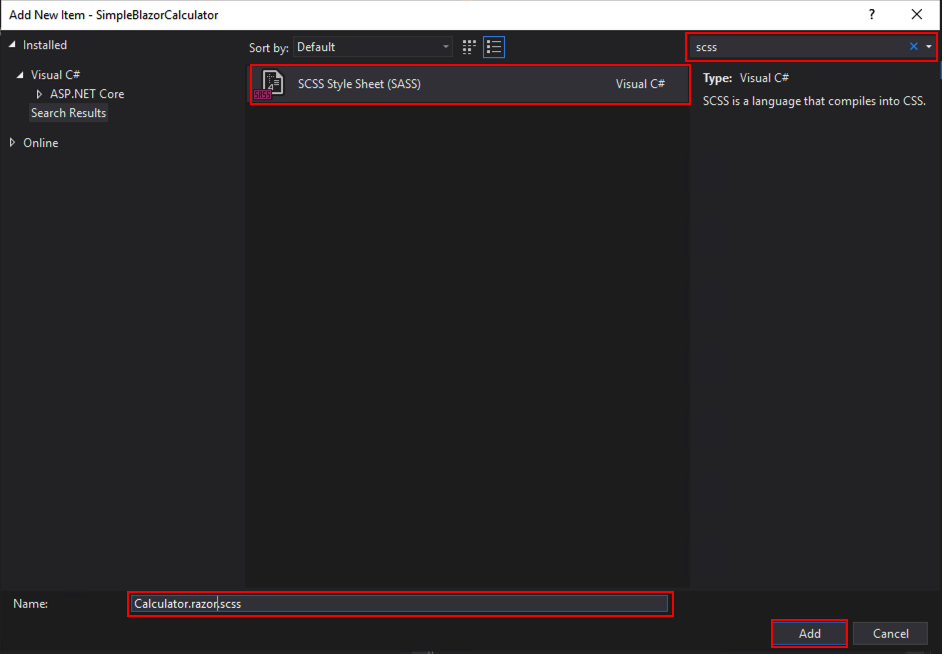
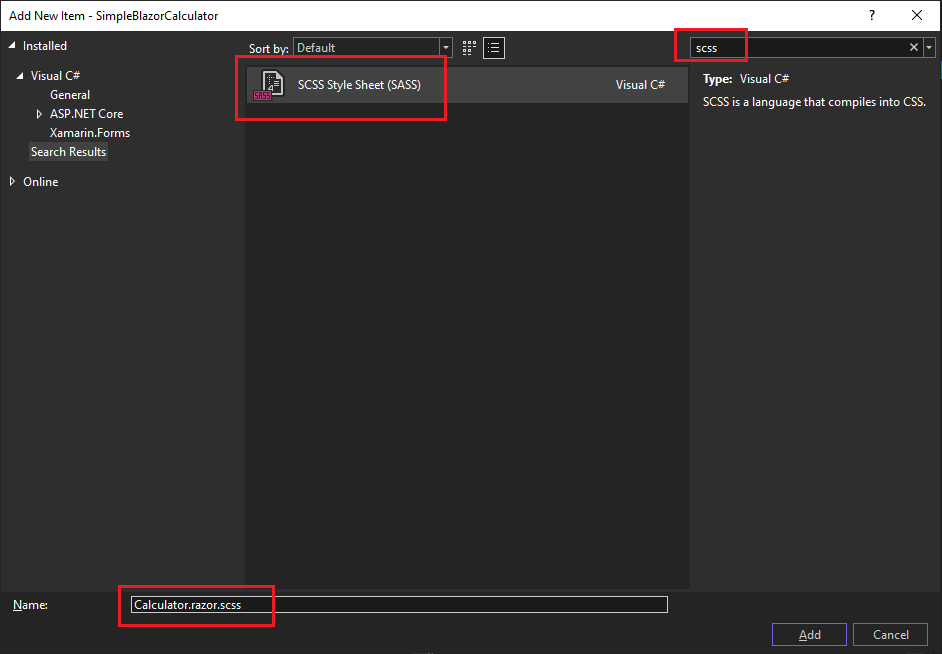
Enhanced step 4

diff --git a/web/step-04/README.md b/web/step-04/README.md
@@ -13,13 +13,15 @@
 4. [افزودن رفتار تعاملی با استفاده از #C](#AddFunctionality)  
 
 ## ایجاد پروژه در Visual Studio <a name="CreateProject"></a>  
-همانند جلسه گذشته پروژه جدیدی به نام SimpleBlazorCalculator ایجاد کرده و مجددا فایلها و پوشههای اضافی را مطابق جلسه گذشته حذف کنید. با این تفاوت که هر سه فایل موجود در پوشه Pages را حذف کنید.
+همانند جلسه گذشته پروژه جدیدی به نام SimpleBlazorCalculator ایجاد کرده و مجددا فایلها و پوشههای اضافی را مطابق جلسه گذشته حذف کنید. با دو تفاوت:
+همه صفحات موجود در پوشه Pages را پاک کنید.
+اگر از کدهای جلسه قبل استفاده میکنید، SimpleBlazorCounter را در هر جایی که کد را کپی کردید، با SimpleBlazorCalculator جایگزین کنید.
 
   
-داخل پوشه Pages راست کلیک نموده و از منوی Add، گزینه Razor Component را زده و اسم آن را Calculator.razor بگذارید.
+داخل پوشه Pages راست کلیک نموده و از منوی Add، گزینه New Itemو بعد گزینه Razor Component را زده و اسم آن را Calculator.razor بگذارید.
 
   
-وارد فایل Calculator.razor شده و در ابتدای این فایل کد زیر را برای تعیین مسیر این صفحه در مرورگر وارد کنید.
+وارد فایل Calculator.razor شده و در ابتدای این فایل کد زیر را برای تعیین مسیر این صفحه در مرورگر وارد کنید و در launchSettings.json نیز مقدار launchUrl را برابر با calculator قرار دهید.
 
 <div dir="ltr">
 
@@ -112,7 +114,7 @@
 <img src="images/img-8.png" />
   
 
-در نهایت بر روی دکمه ok کلیک میکنیم تا این Package نصب شود.
+در نهایت بر روی دکمه Ok کلیک میکنیم تا این Package نصب شود.
    
 
 بعد از نصب  Delegate.SassBuilder بر روی پوشه Pages در بخش Solution Explorer کلیک راست کرده و فایل جدیدی به نام Calculator.razor.scss ایجاد میکنیم.
@@ -353,3 +355,5 @@ namespace SimpleBlazorCalculator.Pages
   <img width="400px" src="images/calculator.gif" />
   
 </div>
+
+در پایان توجه داشته باشید که برای عمده تغییرات، نیازی به زدن Ctrl + F5 نیست، و کمی بعد از ذخیره سازی تغییرات با Ctrl + S، در همان مرورگری که در حال تست بودید، میتوانید تغییرات را مشاهده کنید. البته اگر تغییر مدنظرتان را مشاهده نکردید، از Ctrl + F5 استفاده کنید.
